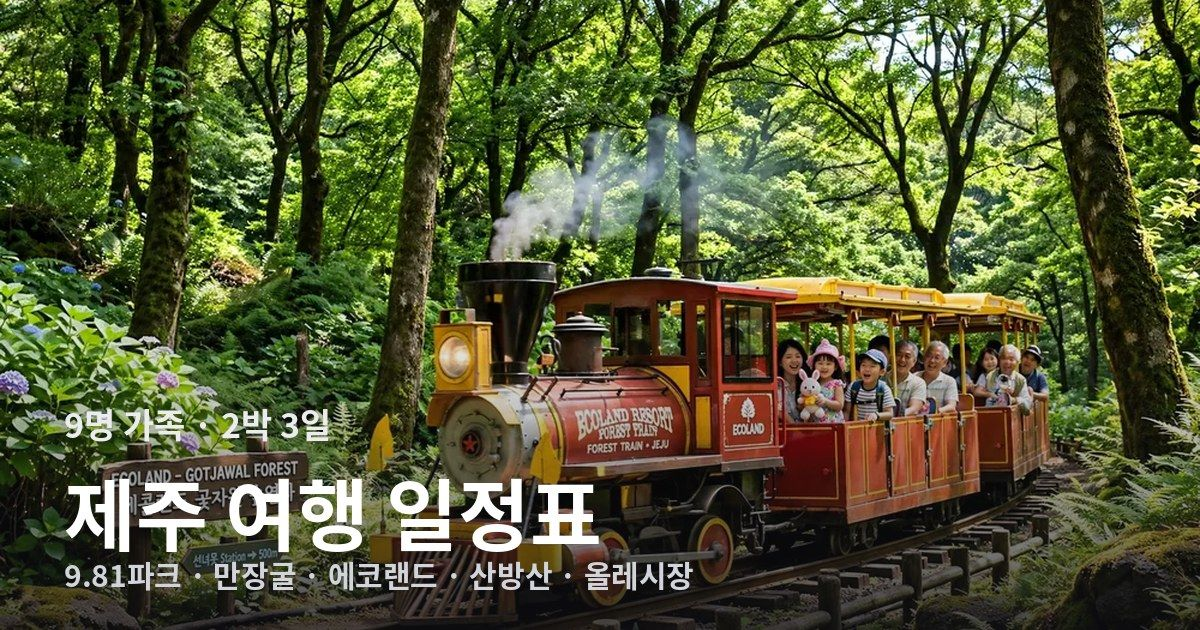
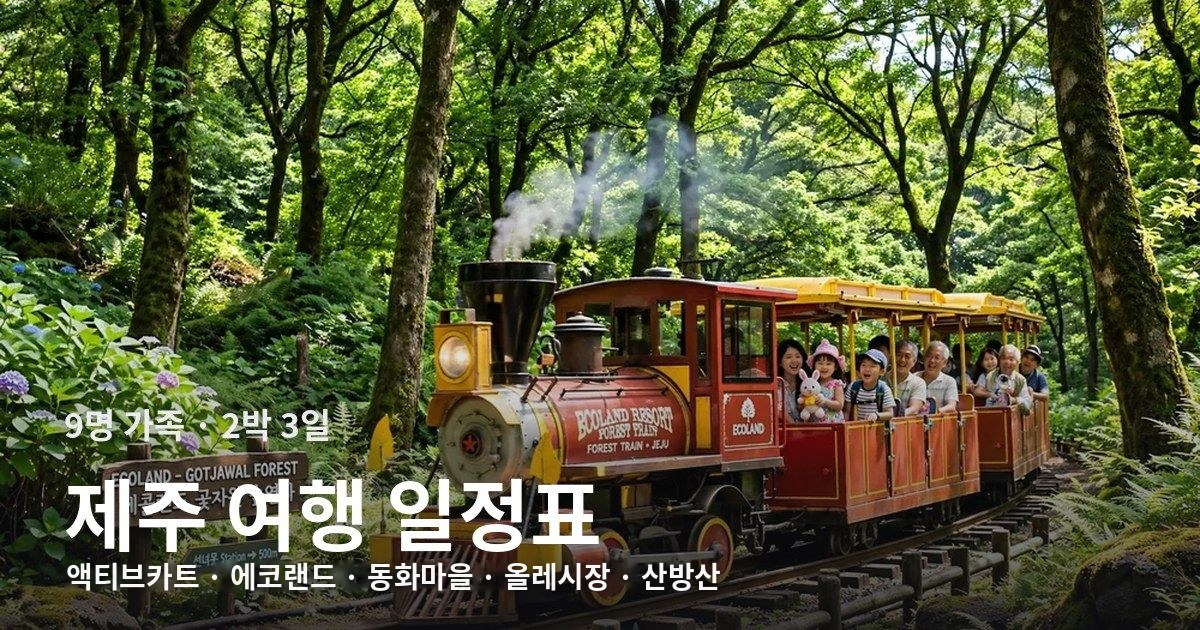
Add files via upload

Changed region(s): [[0.0308, 0.8746, 0.6167, 0.9349]]

diff --git a/build/legs.py b/build/legs.py
@@ -12,35 +12,31 @@ DAYS = {
  ],
  'd2':[
   ('breakfast2',   '08:30', 30, 50,'차량'),
-  ('ecoland',      '09:50',150,  5,'차량'),   # 2시간 30분 · 여유 0
-  ('gyorae_lunch', '12:25', 70, 35,'차량'),
-  ('manjanggul',   '14:20', 80, 25,'차량'),
-  ('delmoondo',    '16:05', 30,  5,'도보'),
-  ('hamdeok',      '16:40', 40, 60,'차량'),
-  ('ssangdungi',   '18:20', 90, 60,'차량'),
-  ('stay_night2',  '20:50',  0,  0, None),
+  ('ecoland',      '09:50',150, 15,'차량'),   # 2시간 30분 · 동화마을까지 번영로 15분
+  ('seongsanbom',  '12:35', 60,  5,'도보'),   # 동화마을 안이라 걸어서 바로
+  ('donghwa',      '13:40',150, 60,'차량'),   # 2시간 30분 + 여유 10분 · 서귀포까지 1시간
+  ('ssangdungi',   '17:20', 90,  5,'도보'),   # 올레시장 입구라 걸어서
+  ('olle_market',  '18:55', 45, 60,'차량'),   # DAY 3 에서 옮겨 옴
+  ('stay_night2',  '20:40',  0,  0, None),
  ],
  'd3':[
   ('breakfast3',   '08:30', 40,  0, None),
   ('checkout3',    '09:10', 10, 40,'차량'),
   ('oneandonly',   '10:00', 35,  5,'도보'),
   ('sanbangsan',   '10:40', 40, 22,'차량'),
-  ('donsuyug',     '11:45', 55, 10,'차량'),
-  ('olle_market',  '12:50', 30, 70,'차량'),
-  ('airport',      '14:30', 50,  0, None),
+  ('donsuyug',     '11:45', 55, 60,'차량'),   # 점심 후 바로 공항 (올레시장은 DAY 2 저녁으로)
+  ('airport',      '13:40', 50,  0, None),
   ('departure',    '15:55',  0,  0, None),
  ],
 }
 SHORT={'jamae':'자매국수','seoul_join':'제주공항','activekart':'액티브카트','rainyday':'숙소',
  'suksungdo':'숙성도 애월점','hanaro':'하나로마트','stay_night':'숙소','stay_night2':'숙소',
- 'ecoland':'에코랜드','gyorae_lunch':'도리골토종닭','manjanggul':'만장굴','delmoondo':'델문도',
- 'hamdeok':'함덕해변','ssangdungi':'쌍둥이횟집','checkout3':'체크아웃','sanbangsan':'산방산',
+ 'ecoland':'에코랜드','seongsanbom':'성산봄','donghwa':'동화마을','ssangdungi':'쌍둥이횟집','checkout3':'체크아웃','sanbangsan':'산방산',
  'oneandonly':'원앤온리','donsuyug':'돈수육','olle_market':'올레시장','airport':'제주공항',
  'departure':'탑승게이트'}
 SHORT_SELF={'ulsan_arrival':'제주공항','jamae':'자매국수','seoul_join':'제주공항',
  'activekart':'액티브카트','suksungdo':'숙성도','hanaro':'하나로마트','breakfast2':'숙소',
- 'ecoland':'에코랜드','gyorae_lunch':'도리골토종닭','manjanggul':'만장굴','delmoondo':'델문도',
- 'hamdeok':'함덕해변','ssangdungi':'쌍둥이횟집','breakfast3':'숙소','checkout3':'숙소',
+ 'ecoland':'에코랜드','seongsanbom':'성산봄','donghwa':'동화마을','ssangdungi':'쌍둥이횟집','breakfast3':'숙소','checkout3':'숙소',
  'oneandonly':'원앤온리','sanbangsan':'산방산','donsuyug':'돈수육','olle_market':'올레시장',
  'airport':'제주공항'}
 COLOR={'d1':('#E0906B','#F0BE9E'),'d2':('#5FAE99','#93CDBB'),'d3':('#7C9FD1','#AEC6E4')}

diff --git a/build/geomap.py b/build/geomap.py
@@ -10,9 +10,9 @@ GEO = {
  'stay_night':(126.3199,33.4272), 'stay_night2':(126.3199,33.4272),
  'breakfast2':(126.3199,33.4272), 'breakfast3':(126.3199,33.4272),
  'checkout3':(126.3199,33.4272),
- 'ecoland':(126.6656,33.4535), 'gyorae_lunch':(126.6750,33.4261),
- 'manjanggul':(126.7714,33.5285), 'delmoondo':(126.6688,33.5438),
- 'hamdeok':(126.6698,33.5434),
+ 'ecoland':(126.6656,33.4535),
+ 'seongsanbom':(126.7329,33.4369),       # 성산봄 죽·칼국수 동화마을점 (번영로 1980)
+ 'donghwa':(126.7318,33.4361),           # 제주동화마을 (비자림로 1191)
  'ssangdungi':(126.5630,33.2466),        # 쌍둥이횟집 본점 (중정로62번길 14)
  'oneandonly':(126.3194,33.2392), 'sanbangsan':(126.3134,33.2411),
  'donsuyug':(126.5118,33.2537), 'olle_market':(126.5641,33.2487),

diff --git a/HANDOVER.md b/HANDOVER.md
@@ -1,9 +1,26 @@
 # 제주 2박 3일 가족여행 일정표 — 이어하기 문서
 
-마지막 갱신: 2026-09-15 (저장소 루트 평탄화) · 현재 번들: `app.1bcf7127.js` / `styles.65a8557e.css`
+마지막 갱신: 2026-10-08 (DAY 2·3 일정 변경) · 현재 번들: `app.895ca329.js` / `styles.65a8557e.css`
 
 > 이 문서만 읽으면 어디서든 이어서 작업할 수 있습니다.
-> 새 대화에서 이 폴더를 zip 으로 묶어 첨부하고 "HANDOVER.md 보고 이어서 작업해줘"라고 하시면 됩니다.
+> 새 대화에서 백업 zip 을 그대로 첨부하고 **"HANDOVER.md 보고 이어서 작업해줘"** 라고 하시면 됩니다.
+> 이 zip 은 **GitHub 저장소 구조 그대로**입니다. 압축만 풀면 바로 올릴 수도, 이어서 고칠 수도 있습니다.
+
+---
+
+## 0. 변경 이력
+
+| 날짜 | 내용 |
+|---|---|
+| 2026-08-06 | 최초 완성. 저장소는 `site/` · `build/` · `source/` 3단 구조였음 |
+| 2026-09-15 | **DAY 2 저녁을 도두해녀의집 → 쌍둥이횟집 본점으로 교체.** 사진·주소·영업시간·설명 전면 교체, `MENUS.dodu`(11항목)와 메뉴 이미지 6장 삭제, `LEG`·`JA` 재생성. 숙소 복귀 19:20 → 20:50 |
+| 2026-10-08 | **DAY 2 동부 일정 재편 + 올레시장 이동.** 점심 도리골토종닭 → **성산봄 죽·칼국수 동화마을점**, 만장굴·카페 델문도·함덕해수욕장 삭제 → **제주동화마을** 추가(사진 2장은 사용자 제공). 올레시장을 DAY 3 → **DAY 2 저녁 뒤**(쌍둥이횟집에서 도보)로 옮기고, 저녁을 18:20 → **17:20** 으로 당김. DAY 3 은 돈수육 뒤 바로 공항(14:30 → **13:40** 도착). 삭제한 4곳의 `ts`·`ff`·`GEO`, `MENUS.delmoondo`(15)·`MENUS.gyorae_lunch`(4), 사진 2장·메뉴 이미지 16장 정리. `LEG`·`JA` 재생성. `og.jpg` 부제(옛 9.81파크·만장굴)도 교체 |
+| 2026-09-15 | **저장소 루트 평탄화.** `site/` 안의 내용을 루트로 올려 `index.html` 이 최상단에 오게 함(Vercel 404 방지). `build/` · `source/` · `HANDOVER.md` 는 `.vercelignore` 로 배포 제외 |
+
+**이번(10-08)에 검증한 것**: 헤드리스 크롬(Playwright)으로 페이지 오류 0건, 로컬 파일 요청 실패 0건, 항목 21개,
+성산봄·동화마을·쌍둥이횟집·올레시장·돈수육·공항 팝업의 사진(`naturalWidth=900`)·타임라인·미니 지도 정상,
+10/10 14:00 으로 시각을 위조하면 NOW 가 동화마을에 뜸. GEO 21곳 전부 육지, 차량 경로 바다 통과 0건.
+(구글 원격 사진 4장은 샌드박스 네트워크에서 403 → 이모지 카드로 대체되는 것까지 확인. 실제 배포에서는 정상)
 
 ---
 
@@ -26,10 +43,10 @@
 index.html                  6KB   메타태그·OG·부팅 가드
 vercel.json                       framework:null / outputDirectory:"." / 캐시·보안 헤더 / 루트 폴백
 assets/
-├── app.1bcf7127.js               React 앱 + 모든 데이터
+├── app.895ca329.js               React 앱 + 모든 데이터
 ├── styles.65a8557e.css           Tailwind 컴파일 + 회색테마 + 데스크톱 3단 + 메뉴 리스트
-├── img/                          장소 사진 9장 (전부 로컬)
-└── menu/                         메뉴 사진 32장 (네이버 메뉴판에서 크롭)
+├── img/                          장소 사진 9장 (로컬)
+└── menu/                         메뉴 사진 31장 (네이버 메뉴판에서 크롭)
 og.jpg                            카카오톡 공유 미리보기 1200×630
 favicon.svg · apple-touch-icon.png · icon-192.png · icon-512.png
 site.webmanifest · robots.txt · sitemap.xml
@@ -37,10 +54,10 @@ set-domain.sh                     도메인 일괄 치환
 README.md                         배포·404 트러블슈팅
 .vercelignore                     build/ · source/ · HANDOVER.md 는 배포에서 제외
 
-build/                            일정·지도 계산 스크립트 (legs.py · geomap.py 등)
+build/                            일정·지도 계산 스크립트 (legs.py · geomap.py 등 · legs2.py 는 옛 실험이라 쓰지 않음)
 source/
 ├── menu-screenshots/  10장       네이버 메뉴판 원본 (메뉴 사진 크롭의 출처)
-└── place-photos/       6장       숙소·숙성도·쌍둥이횟집본점·원앤온리·올레시장·액티브카트 원본
+└── place-photos/       8장       숙소·숙성도·쌍둥이횟집본점·원앤온리·올레시장·액티브카트·성산봄동화마을점·제주동화마을 원본
 ```
 
 첫 화면 전송량 약 240KB(gzip 후 60KB 내외). 사진은 팝업/메뉴를 열 때만 내려받습니다.
@@ -57,16 +74,16 @@ source/
 | 20:00 | **애월농협 하나로마트** (30분 · 22시 마감) |
 | 20:35 | 숙소 체크인 (오늘 첫 도착 · 짐 내리기) |
 
-| 시각 | DAY 2 (숲·동굴·바다) |
+| 시각 | DAY 2 (숲·정원·시장) |
 |---|---|
 | 08:30 | **아침식사** — 숙소 (30분 · 09:00 출발) |
-| 09:50 | 에코랜드 (2시간 30분 · 여유 0) |
-| 12:25 | **점심식사** — 도리골토종닭 (여유 10분 · 화요일 휴무) |
-| 14:20 | 만장굴 (1시간 20분 · 여유 0 · 입장마감 17:00) |
-| 16:05 | **카페 델문도** (30분 · 빵은 넉넉히 포장) |
-| 16:40 | 함덕해수욕장 (40분 · 델문도에서 도보 2분 · 17:20 출발) |
-| 18:20 | **저녁식사** — 쌍둥이횟집 본점 (함덕에서 차량 1시간 · 90분) |
-| 20:50 | 숙소 복귀 (서귀포에서 차량 1시간) |
+| 09:50 | 에코랜드 (2시간 30분) → 번영로 **차량 15분** |
+| 12:35 | **점심식사** — 성산봄 죽·칼국수 동화마을점 (60분 · 브레이크 15:30) |
+| 13:40 | **제주동화마을** (점심 집에서 **도보** · 2시간 30분 + 여유 10분 · 입장·주차 무료) |
+| 16:20 | 서귀포로 출발 (**차량 1시간**) |
+| 17:20 | **저녁식사** — 쌍둥이횟집 본점 (90분 · 토요일 저녁 붐비기 전) |
+| 18:55 | **서귀포매일올레시장** (횟집에서 **도보** · 45분 · 상점 20~21시 마감) |
+| 20:40 | 숙소 복귀 (올레시장에서 차량 1시간) |
 
 | 시각 | DAY 3 (남서부 & 귀가) |
 |---|---|
@@ -74,9 +91,8 @@ source/
 | 09:10 | 체크아웃 (10분) → 원앤온리 **차량 40분** |
 | 10:00 | **원앤온리 카페** (10시 오픈 직후 · 35분) |
 | 10:40 | 산방산 주변 산책 (카페에서 **도보** · 40분) |
-| 11:45 | **점심식사** — 돈수육 (토요일 휴무지만 10/11은 일요일이라 영업) |
-| 12:50 | 서귀포매일올레시장 (30분) → 공항 **차량 70분** |
-| 14:30 | 공항 도착 · 렌트카 반납 |
+| 11:45 | **점심식사** — 돈수육 (55분) → 바로 공항 **차량 1시간** |
+| 13:40 | 공항 도착 · 렌트카 반납 (서울팀 출발 2시간 15분 전) |
 | 15:55 | 김포행(15:55) / 울산행(16:10) 출발 |
 
 ## 4. 데이터 구조 — `assets/app.1bcf7127.js` 안
@@ -88,16 +104,17 @@ source/
 jamae:[{n:"고기국수",p:"10,000원",b:1,i:"jamae-01.<hash>.webp"}, ...]
 // n=이름 p=가격 d=설명(선택) b=1이면 '대표' 뱃지 i=assets/menu/ 안 파일명(선택)
 ```
-6곳 57항목: jamae 5 · suksungdo 5 · gyorae_lunch 4 · oneandonly 10 · donsuyug 18 · delmoondo 15
-**쌍둥이횟집은 메뉴판 사진이 없어 항목이 없습니다.** 네이버 메뉴판을 주시면 `ssangdungi:[...]` 로 붙일 수 있습니다(없으면 '메뉴 보기' 버튼 자체가 안 나옵니다).
+4곳 38항목: jamae 5 · suksungdo 5 · oneandonly 10 · donsuyug 18
+**쌍둥이횟집·성산봄은 메뉴판 사진이 없어 항목이 없습니다.** 네이버 메뉴판을 주시면 `ssangdungi:[...]` / `seongsanbom:[...]` 로 붙일 수 있습니다(없으면 '메뉴 보기' 버튼 자체가 안 나오고, 팝업에는 `menu` 한 줄 요약만 보입니다).
+델문도·도리골토종닭 메뉴는 2026-10-08 장소 삭제와 함께 지웠습니다(`build/delmenu.py` 에 델문도 원본 목록은 남아 있음).
 
 ### `var IM={...}` — 장소 대표 사진
 ```js
 STAY:"assets/img/stay.<hash>.webp"      // 로컬
 AIR:GP+"AG9NL..."                        // 구글 지도 원격 (GP = lh3.googleusercontent.com)
 ```
-- **로컬(9)**: 액티브카트 · 숙소 · 숙성도 · **쌍둥이횟집본점**(`SSANG`) · 원앤온리 · 올레시장 · 델문도 + 만장굴(`$o`) · 에코랜드(`_o`)
-- **구글 원격(6)**: AIR, JAMAE, DAK, HAMDEOK, DONSU, SANBANG
+- **로컬(9)**: 액티브카트 · 숙소 · 숙성도 · 쌍둥이횟집본점(`SSANG`) · 원앤온리 · 올레시장 · **성산봄**(`SSBOM`) · **동화마을**(`DONGHWA`) + 에코랜드(`_o`, `IM` 밖에 따로 선언)
+- **구글 원격(4)**: AIR, JAMAE, DONSU, SANBANG
   → 링크가 끊기면 이모지 카드로 자동 대체됩니다(`.ph-fallback`). 원본 사진을 주시면 로컬로 바꿀 수 있습니다.
 
 ### `var CANDS={...}` — 팝업 안 관련 장소 목록 (현재 비어 있음)
@@ -119,6 +136,7 @@ somePlace:{ ..., review:"https://blog.naver.com/..." }
 ### `var LEG={...}` — 팝업 안 시간 타임라인
 모든 항목에 **시작 → 차량/도보 출발 → 다음 장소 도착**을 가로 바로 보여줍니다.
 ```js
+// 구조 예시 (만장굴은 2026-10-08 삭제된 옛 데이터)
 LEG={ manjanggul:{ s:"14:20", d:"15:40", dm:"차량 출발", e:"16:05", n:"델문도",
   dp:"76.19%",          // 바 위 눈금 위치(정확한 비율)
   dl:"76.19%",          // 라벨 위치(9~91% 로 제한해 넘침 방지)
@@ -168,7 +186,7 @@ departure:{ ..., hl:{type:"flights",items:[
 ```
 CSS 는 `.hl-*`. 다른 항목에도 붙일 수 있습니다.
 
-### `var ts={...}` — 장소 상세 (20개)
+### `var ts={...}` — 장소 상세 (21개)
 ```js
 ssangdungi:{ id:"ssangdungi", rowName:"저녁식사", name:"쌍둥이횟집 본점", short:"쌍둥이횟집",
   emoji:"🐟", image:IM.SSANG, menu:"스페셜 세트 · 모둠회 · 갈치회 · 고등어회",
@@ -191,8 +209,10 @@ d1 살구(pill #FFE8D6 / blob #FFC8A8·#FFDCC2 / accent #FF9A6A) · d2 민트(#D
 
 ### `var JA=[...]` — 날짜별 시간표
 ```js
-{id:"d2", label:"DAY 2 · 숲·동굴·바다 하루", date:"10/10 금", title:"동부 원정",
- rows:[{time:"08:50",placeId:"ecoland",dur:"140분"}, ...]}
+{id:"d2", label:"DAY 2 · 숲·정원·시장 하루", date:"10/10 토", title:"동부 숲 & 서귀포 시장",
+ rows:[{time:"09:50",placeId:"ecoland",dur:"150분"}, ...]}
+// JA 의 time/dur 는 build/legs.py 의 DAYS 와 반드시 같게. 이번에는 DAYS 에서 JA 를 자동으로 만들어 넣었습니다
+// (title 은 화면에 표시되지 않고 메모용입니다)
 ```
 
 ### NOW 강조 로직
@@ -222,7 +242,7 @@ NEW=app.$(sha1sum assets/app.*.js | cut -c1-8).js
 ```bash
 python3 -m http.server 4000
 ```
-확인 항목: 페이지 오류 0건 / 항목 20개 / 사진 naturalWidth>0 / 메뉴 토글 항목 수 /
+확인 항목: 페이지 오류 0건 / 항목 21개 / 사진 naturalWidth>0 / 메뉴 토글 항목 수 /
 모바일 스와이프로 팝업 안 열림 / 탭으로 열림 / 시각 위조 시 NOW 위치 / 데스크톱 3단 그리드
 
 ## 7. 그동안의 결정과 이유
@@ -255,23 +275,34 @@ python3 -m http.server 4000
 | DAY 2 카페 델문도 | 첫날·둘째날에 카페가 없었음. 함덕해변 도보 100m라 이동 0분 |
 | 항공편·목표시각 강조 | 본문 텍스트로는 눈에 안 띄어 `hl` 블록으로 큰 숫자 표시 |
 | 팝업 사진 250px/340px | 216px 로는 세로가 잘려 피사체가 안 보였음. 원본을 1.65:1 로 맞춤 |
+| DAY 2 동부 → 동화마을 (10-08) | 사용자 요청. 만장굴·델문도·함덕을 빼고 점심 집(성산봄)이 있는 제주동화마을 한 곳으로. 점심→관광이 도보라 차를 한 번 덜 탐. 빠진 델문도 대신 동화마을 안 스타벅스 리저브가 그날의 카페 |
+| 저녁 18:20 → 17:20 (10-08) | 동화마을 2시간 30분이면 충분하고, 올레시장을 저녁 뒤로 옮기면서 상점 마감(20~21시) 전에 들어가야 해서. 토요일 쌍둥이횟집 번호표 대기도 18시 전이 짧음 |
+| 올레시장 DAY 3 → DAY 2 저녁 (10-08) | 사용자 요청. 쌍둥이횟집이 시장 입구라 도보로 이어짐. 공항 시간 압박이 없어져 30분 → 45분 |
+| DAY 3 점심 후 바로 공항 (10-08) | 사용자 요청. 공항 도착 14:30 → 13:40. 서울팀 기준 2시간 15분 여유 |
+| og.jpg 부제 교체 (10-08) | 옛 부제 '9.81파크 · 만장굴 · …' 가 남아 있었음. 글자 부분만 인페인팅 후 Noto Sans CJK KR Bold 29px 로 다시 씀 |
 
 ## 8. 남은 확인 사항
 
 1. **돈수육** — 토요일 휴무지만 10/11이 일요일이라 정상 영업 (2026년 기준)
-2. **쌍둥이횟집 본점 (2026-09-15 변경)** — 도두해녀의집을 대체했습니다. 서귀포 매일올레시장 입구(중정로62번길 14, 064-762-0478)라 **DAY 2 동선이 섬을 남북으로 가로지릅니다**: 함덕→쌍둥이횟집 차량 1시간, 쌍둥이횟집→숙소 차량 1시간. 숙소 복귀가 19:20 → **20:50** 으로 1시간 30분 늦어졌습니다. 10/10은 토요일 저녁이고 번호표를 받고 기다리는 집이라 **낮에 전화로 9명 자리를 꼭 확인**하세요. 체류는 세트 코스 기준 90분으로 잡았습니다.
-   - 이동을 줄이려면 **DAY 3 점심(돈수육 11:45)과 맞바꾸는 방법**이 있습니다. DAY 3은 12:50에 바로 옆 올레시장을 가므로 추가 이동이 거의 0이고, DAY 2 저녁은 도두 쪽으로 되돌릴 수 있습니다.
-   - 도두 시절 대안 3곳(순옥이네명가·삼성혈해물탕 도두점·도두 어부의 밥상) 데이터는 `build/dodu-alternatives.snippet.txt` 에 그대로 있습니다
-3. **여행 연도** — 앱의 요일 표기가 2025년 기준. 2026년이면 `JA`의 `date` 를 금·토·일로 수정
-4. **자매국수 수요일 휴무**, 도리골토종닭 화요일 휴무
+2. **쌍둥이횟집 본점** — 서귀포 매일올레시장 입구(중정로62번길 14, 064-762-0478). 10/10 은 토요일 저녁이고 번호표를 받고 기다리는 집이라 **낮에 전화로 9명 자리를 꼭 확인**하세요. 2026-10-08 부터 17:20 도착으로 당겼습니다.
+   - 식사 뒤 올레시장까지 걸어갈 때 횟집 주차장에 차를 계속 둬도 되는지는 확인하지 못했습니다. 문구에는 "식사 때 물어보고 어려우면 시장 공영주차장으로"라고 적어 두었습니다.
+   - 예전 메모의 'DAY 2 저녁 / DAY 3 점심 맞바꾸기' 는 올레시장을 DAY 2 저녁으로 옮기면서 의미가 없어졌습니다.
+   - 도두 시절 대안 3곳 데이터는 `build/dodu-alternatives.snippet.txt` 에 그대로 있습니다
+3. **성산봄 죽·칼국수 동화마을점 (2026-10-08 추가)** — 제주시 구좌읍 번영로 1980 1층, 07:00-19:30 · 브레이크 15:30-16:30 · 라스트오더 19:00 · 0507-1377-3340 (다이닝코드·구글 기준). 단체 이용 가능. 메뉴 가격은 확인하지 못해 `menu` 한 줄(간판의 보말칼국수·떡볶이·만두 + 상호의 죽)만 넣었습니다.
+4. **제주동화마을 (2026-10-08 추가)** — 제주시 구좌읍 비자림로 1191, 09:00-20:00 연중무휴, 입장·주차 무료, 064-743-5000 (한국관광 정보 기준). 향기체험관 체험은 별도 요금. 서귀포 쌍둥이횟집까지 차량 1시간은 직선 26km 기준 추정치입니다.
+   - 서귀포매일올레시장 마감은 하절기 21시 / 동절기 20시, 점포마다 다릅니다. 10월은 경계라 19시 전 입장으로 잡았습니다.
+   - 자매국수 수요일 휴무 (10/9 금요일은 영업)
+   - 여행 연도: `JA` 요일 표기(10/9 금 · 10/10 토 · 10/11 일)는 2026년 달력과 맞습니다
 5. **숙소 주소** — "제주시 애월읍 · 예약 확인서 주소 기준"으로만 적어 둠. 정확한 주소를 넣으려면 `ts.rainyday.address` 와 `ts.checkout3.address` 수정
 6. **메뉴 가격** — 첨부해 주신 네이버 화면 기준. 인상 가능성 있음
-7. 사진이 구글 원격(4번 항목 참고)
+7. 사진 4장이 구글 원격(4번 항목 참고)
+8. **DAY 3 공항 여유가 2시간 15분으로 늘었습니다** — 원앤온리나 점심을 늘리거나 체크아웃을 늦추는 식으로 쓸 수 있습니다(지금은 그대로 둠)
+9. **og.jpg** 는 파일명 해시가 없어, 이미 카카오톡에 공유된 링크는 미리보기가 옛 그림으로 남을 수 있습니다. 카카오 공유 디버거에서 캐시를 초기화하세요
 
 ## 9. 다음에 하면 좋을 것 (후보)
 
-- 구글 원격 사진 6장을 직접 찍은 사진으로 교체
-- 쌍둥이횟집 메뉴판 사진을 받아 `MENUS.ssangdungi` 채우기
-- 여행 연도 확정 후 요일 표기 정정
+- 구글 원격 사진 4장을 직접 찍은 사진으로 교체
+- 쌍둥이횟집·성산봄 메뉴판 사진을 받아 `MENUS.ssangdungi` / `MENUS.seongsanbom` 채우기
+- DAY 3 남는 시간(공항 2시간 15분 전 도착) 활용 검토
 - 준비물 체크리스트 재도입 (이전에 삭제함)
 - 지도 앱 연동 버튼 (현재는 팝업에 주소 텍스트만)

diff --git a/README.md b/README.md
@@ -15,7 +15,7 @@
 4. **Commit changes** 를 누릅니다.
 
 > ⚠ **폴더를 통째로 끌면 안 됩니다.** `jeju-itinerary/index.html` 처럼 한 겹 더 들어가서 Vercel 이 404 를 냅니다.
-> ⚠ 웹 업로드는 **한 번에 100개**까지입니다. 이 저장소는 94개라 한 번에 들어갑니다.
+> ⚠ 웹 업로드는 **한 번에 100개**까지입니다. 이 저장소는 82개라 한 번에 들어갑니다.
 > ⚠ 웹 드래그는 `.gitignore` · `.vercelignore` 같은 **점으로 시작하는 파일을 건너뜁니다.** 없어도 사이트는 정상 동작합니다. 필요하면 **Add file → Create new file** 로 이름을 직접 입력해 만드세요.
 
 ### 방법 B — 터미널 (폴더 통째로, 가장 확실함)
@@ -93,10 +93,10 @@ python3 -m http.server 4000    # http://localhost:4000
 
 ```
 index.html                  6KB   껍데기 + 메타태그 + 부팅 가드
-assets/app.*.js           196KB   React 앱 (해시 파일명 → 영구 캐시)
-assets/styles.*.css        47KB   Tailwind + 회색 테마 + 데스크톱 레이아웃
+assets/app.*.js           204KB   React 앱 (해시 파일명 → 영구 캐시)
+assets/styles.*.css        57KB   Tailwind + 회색 테마 + 데스크톱 레이아웃
 assets/img/*.webp                 장소 사진 9장 (상세창 열 때만 로드)
-assets/menu/*.webp                메뉴 사진 32장
+assets/menu/*.webp                메뉴 사진 31장
 og.jpg                    244KB   카카오톡·슬랙 공유 미리보기 (1200×630)
 favicon.svg / icon-*.png          파비콘, 홈 화면 아이콘
 site.webmanifest                  홈 화면에 추가하면 앱처럼 실행
